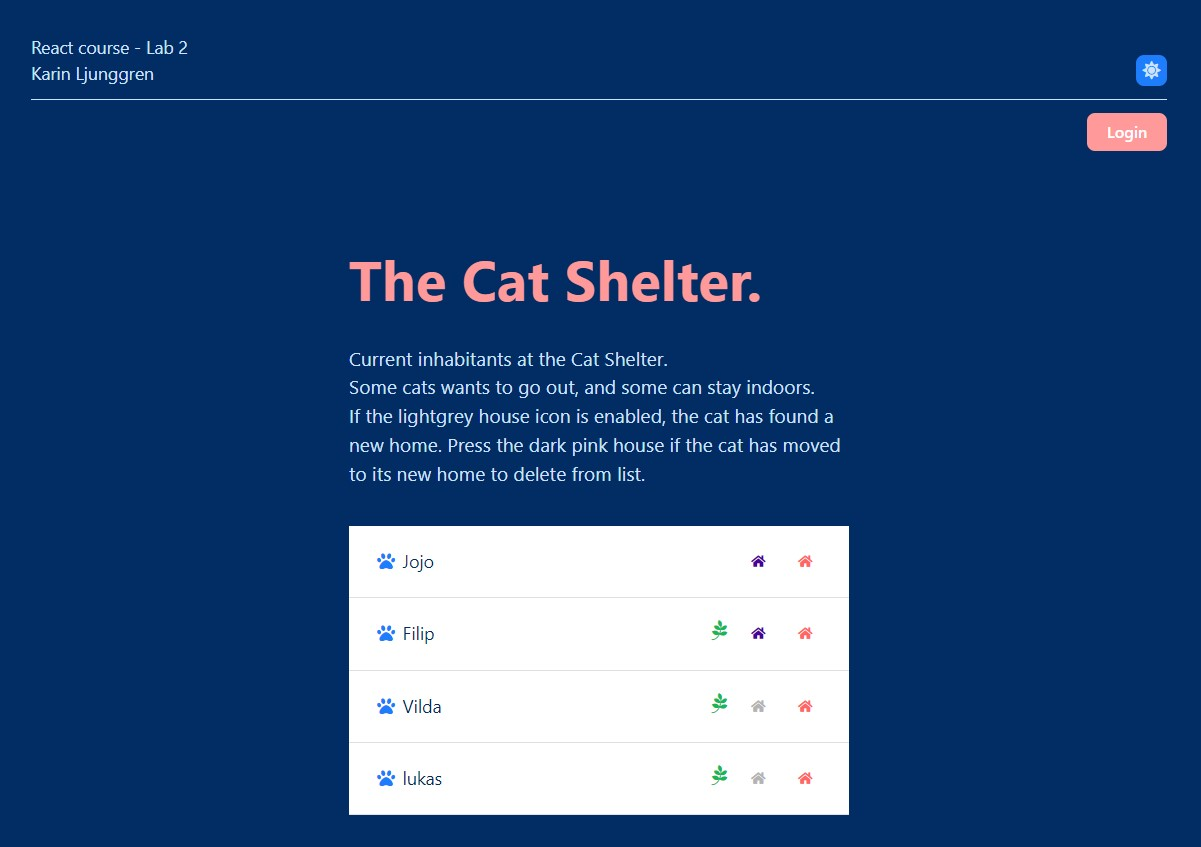
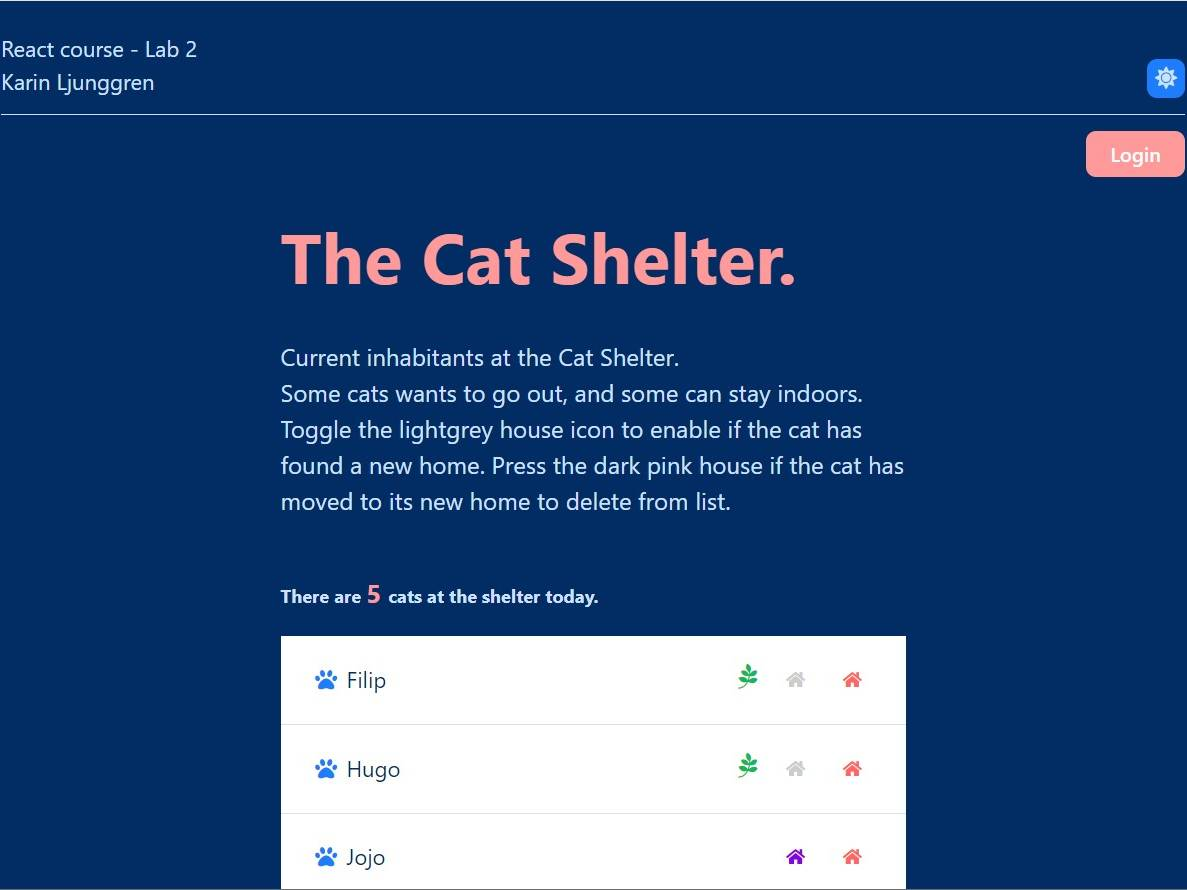
readme update

diff --git a/src/styles/GlobalStyle.js b/src/styles/GlobalStyle.js
@@ -37,7 +37,7 @@ body {
 
 }
 main{
-  margin-top: 5rem;
+  margin-top: 1rem;
   min-height: 70vh;
 }
 h1 {

diff --git a/README.md b/README.md
@@ -6,7 +6,7 @@
 
 React project using the Vite tool. <br/>
 Fetching and updating DB data with JSON server.
-A Cat Shelter list where you can see the a list of the current cats. <br/>
+A Cat Shelter list where you can see the list of the current cats. <br/>
 If you are logged in you can add cats and choose if he needs to go outside or can be indoor cat. <br/>
 In list toggle if he found new home or not and click the dark pink house if he has moved to the new home to delete him from the list.
 You can also toggle from dark blue to light pink theme.
